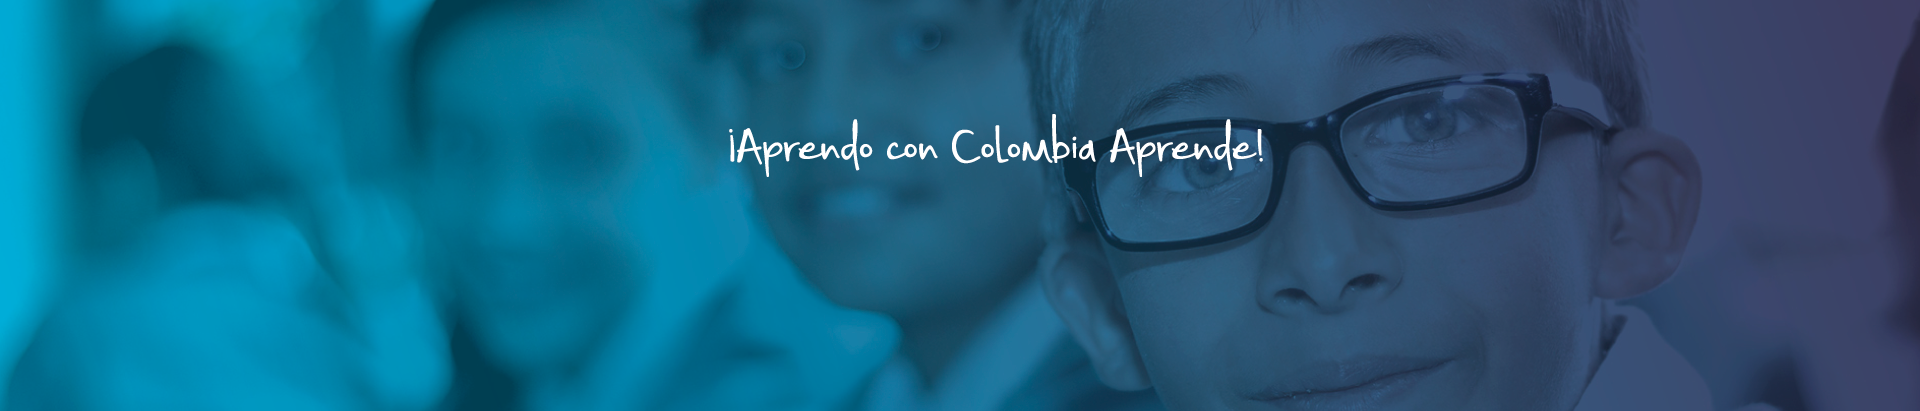
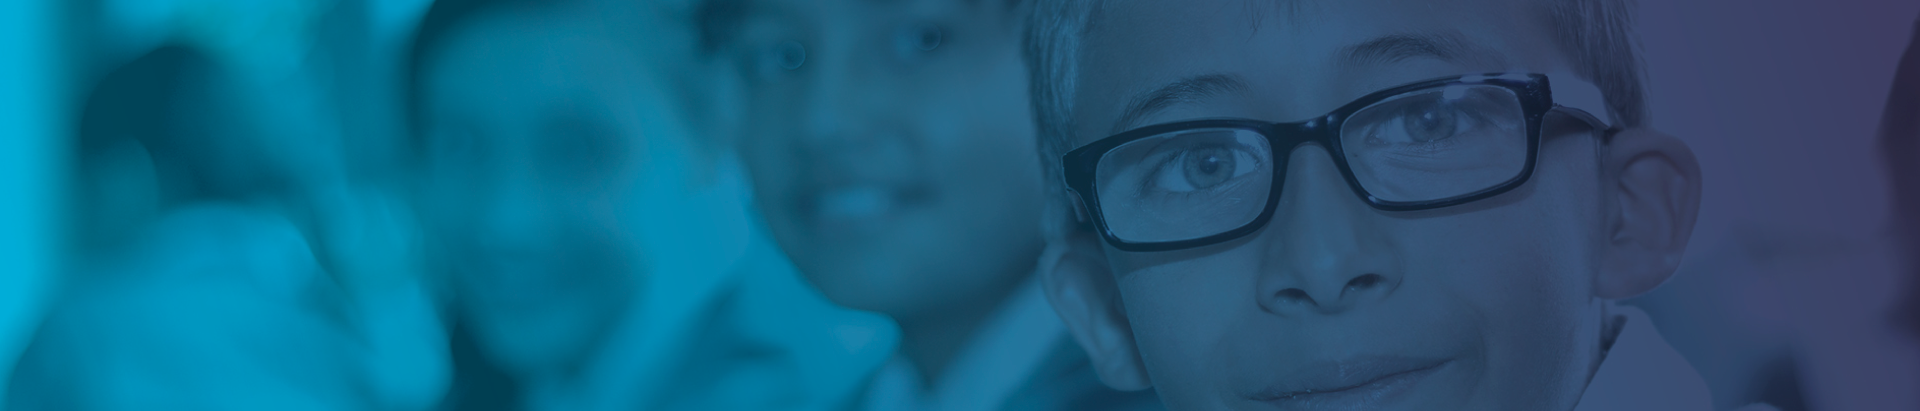
últimos arreglos del header, se inicia nuevo branch para menús

Changed region(s): [[0.375, 0.292, 0.6562, 0.4088]]

diff --git a/css/base.css b/css/base.css
@@ -25,6 +25,11 @@ h3{margin:0px;}
 .navbar-collapse >.btn{margin-top:5px;-webkit-border-radius: 17px;-moz-border-radius: 17px;border-radius: 17px; float: right;line-height: 25px;}
 .navbar{border-bottom:5px solid; color:#de5a49;}
 .logo{margin: 20px 0 50px 0;}
-.bs-docs-header{background:url("../img/img-header.png") no-repeat center center fixed;-webkit-background-size: cover;-moz-background-size: cover;-o-background-size: cover;background-size: cover;}
-.search-conteiner{width:100%;}
-.search-conteiner>.form-group{margin:auto;}
+.btn-search{line-height: 22px;padding: 5px 15px;color:rgba(255,255,255,0.0);background:url("../img/ico-search.png") no-repeat  #de5a49;-webkit-transition:all 500ms ease-in;-o-transition:all 500ms ease;transition:all 500ms ease;-webkit-border-radius: 15px;-webkit-border-top-left-radius: 0px;-webkit-border-bottom-left-radius: 0px;-moz-border-radius: 15px;-moz-border-radius-topleft: 0px;-moz-border-radius-bottomleft: 0px;border-radius: 15px;border-top-left-radius: 0px;border-bottom-left-radius: 0px;}
+.btn-search:hover{color:rgba(255,255,255,0.0); background-color: #cc463b}
+.bs-docs-header{background:url("../img/img-header.png") no-repeat center center;-webkit-background-size: cover;-moz-background-size: cover;-o-background-size: cover;background-size: cover;}
+.search-conteiner{ padding: 15px; margin-bottom: 100px;}
+.search-conteiner>.form-group{margin:auto;min-width:450px;}
+.search-conteiner>input{}
+.search-conteiner>.button{float: right;}
+.input-search{min-width:400px;margin-right: -4px;}

diff --git a/index.php b/index.php
@@ -50,11 +50,12 @@
             <div class="container">
                 <div class="row">
                     <div class="col-md-12 logo"><img src="img/logo.png"></img></div>
+                    <div class="col-md-6 col-md-offset-3"><img src="img/img-slogan.png"></img></div>
                     <form class="form-inline">
-                        <div class="search-conteiner">
+                        <div class="search-conteiner col-md-5 col-md-offset-4">
                             <div class="form-group">
-                                <input type="text" class="form-control" id="search" placeholder="¿Qué quieres aprender?">
-                                <button type="button" class="btn btn-default" id="btnFind">buscar</button>
+                                <input type="text" class="form-control input-search" id="search" placeholder="¿Qué quieres aprender?">
+                                <button type="button" class="btn btn-search" id="btnFind">S</button>
                             </div>
 
                         </div>
